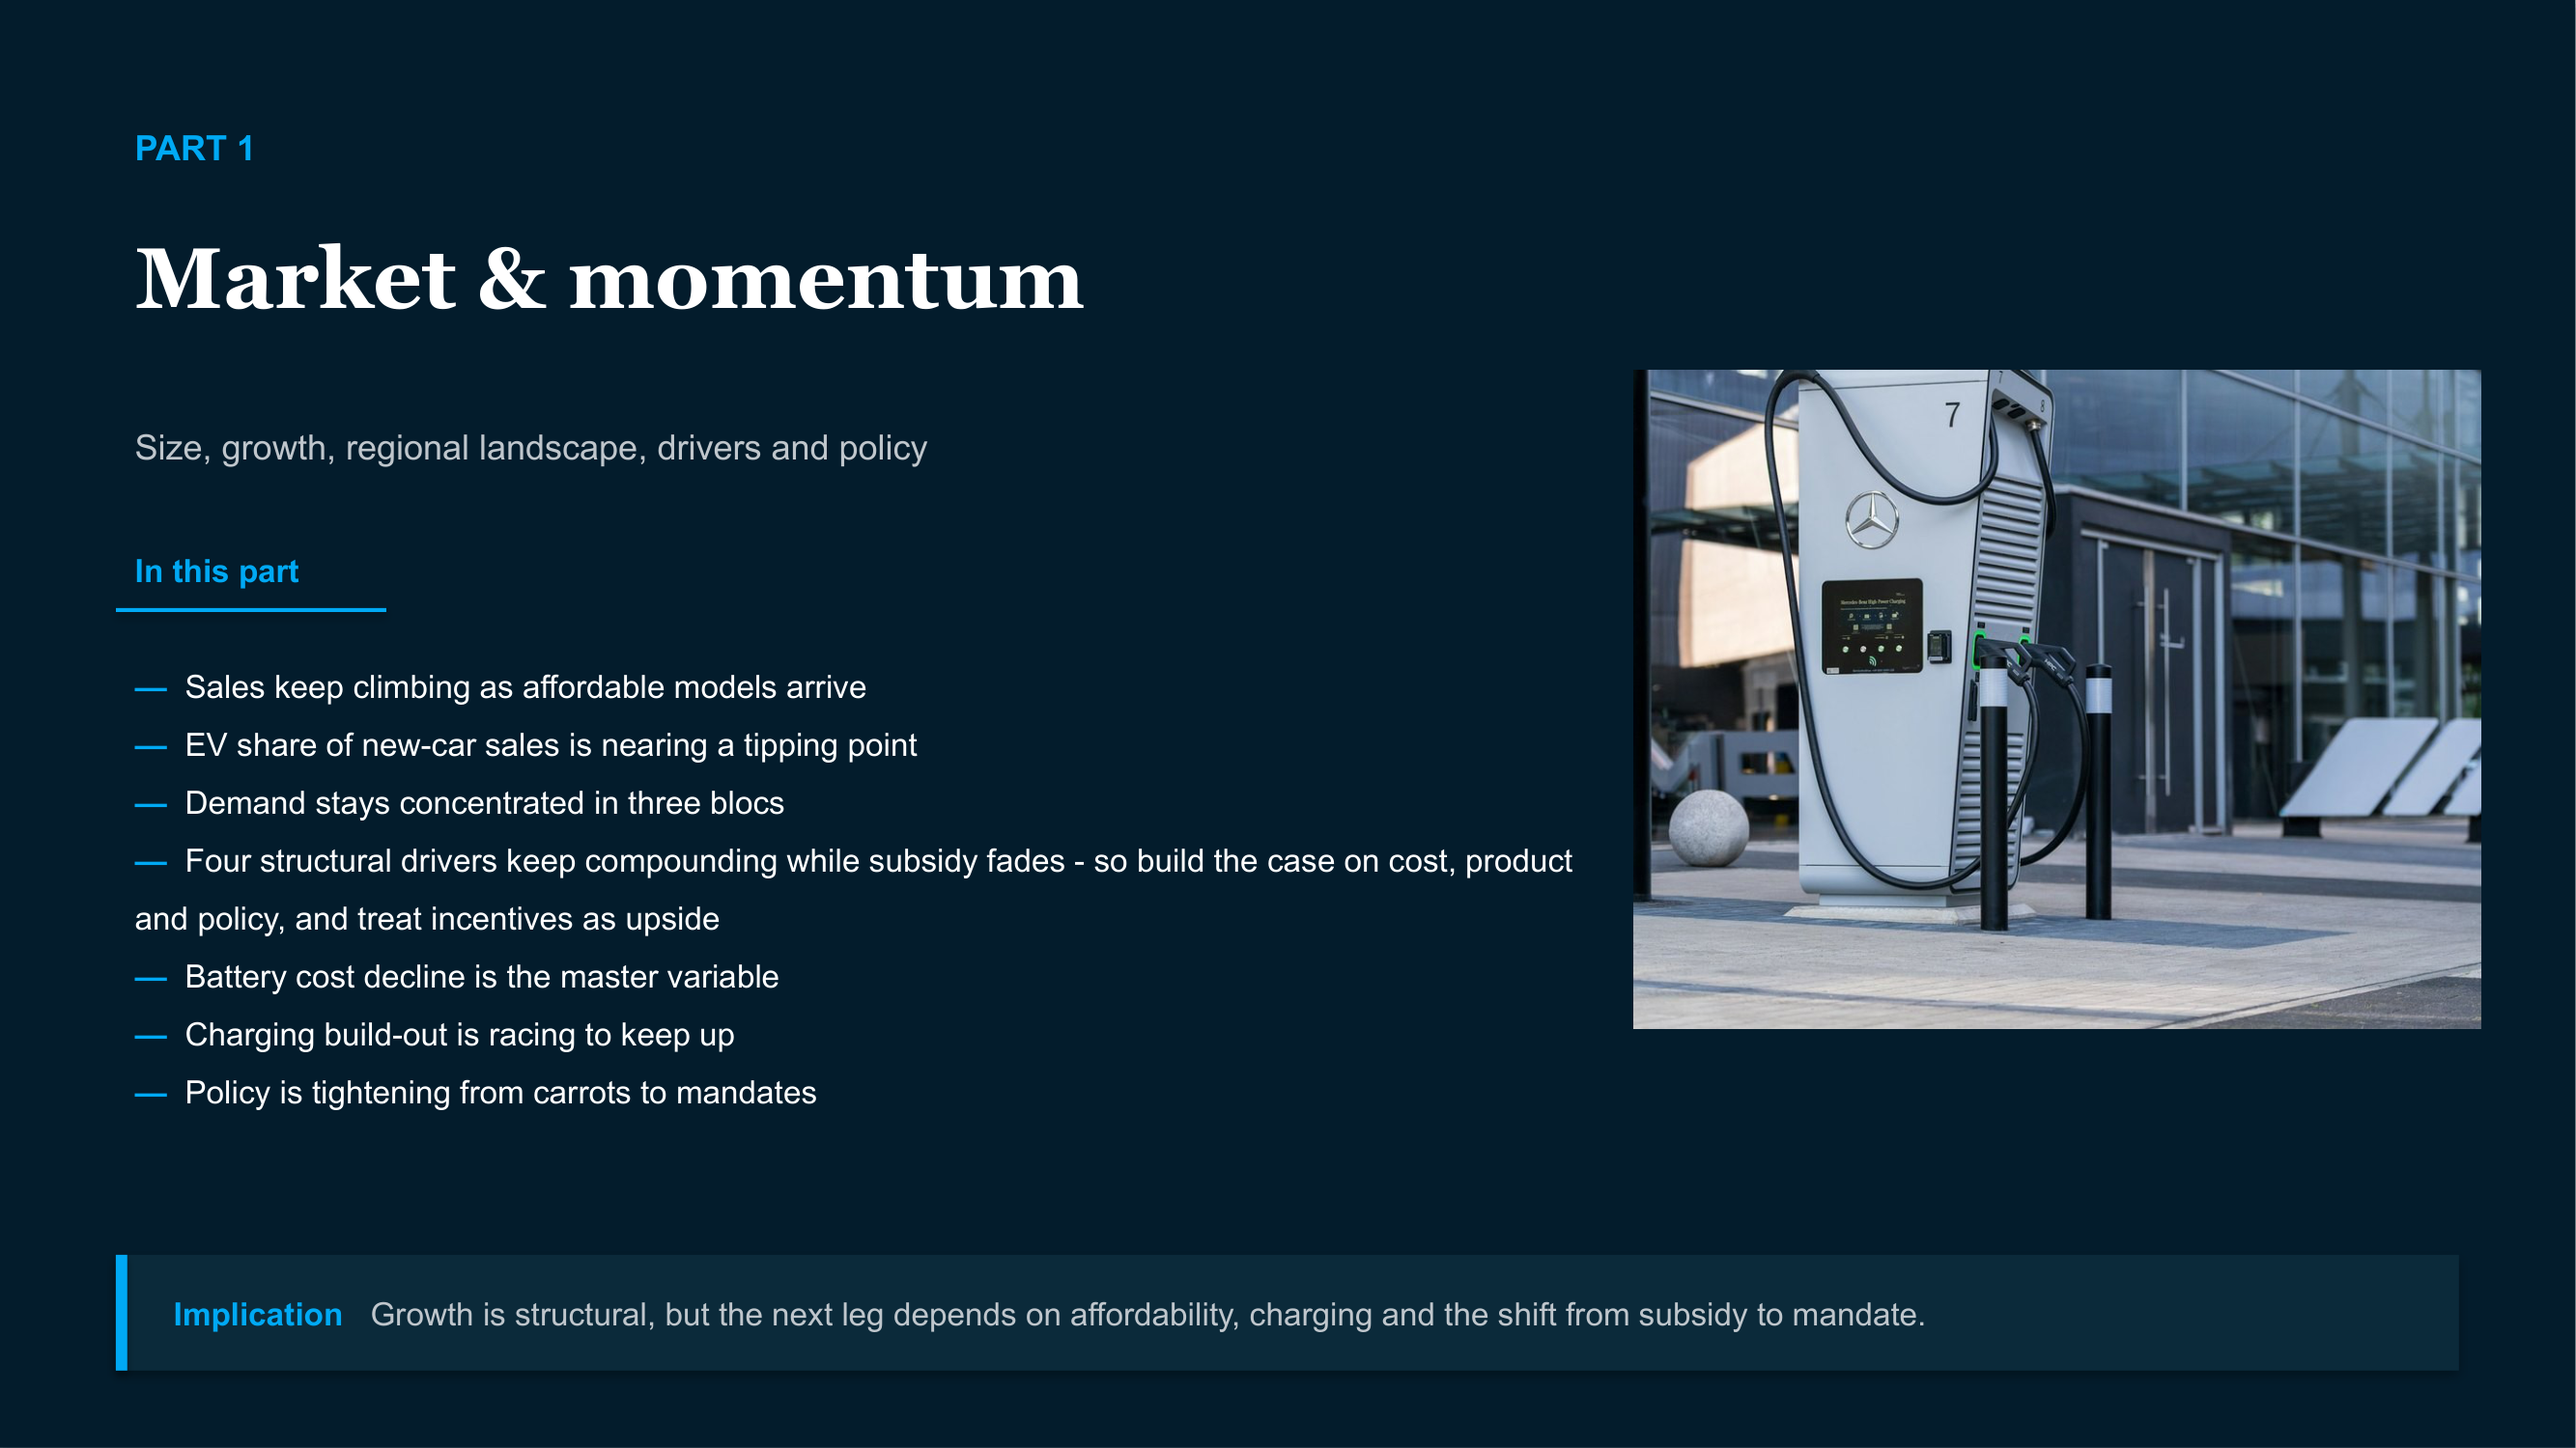
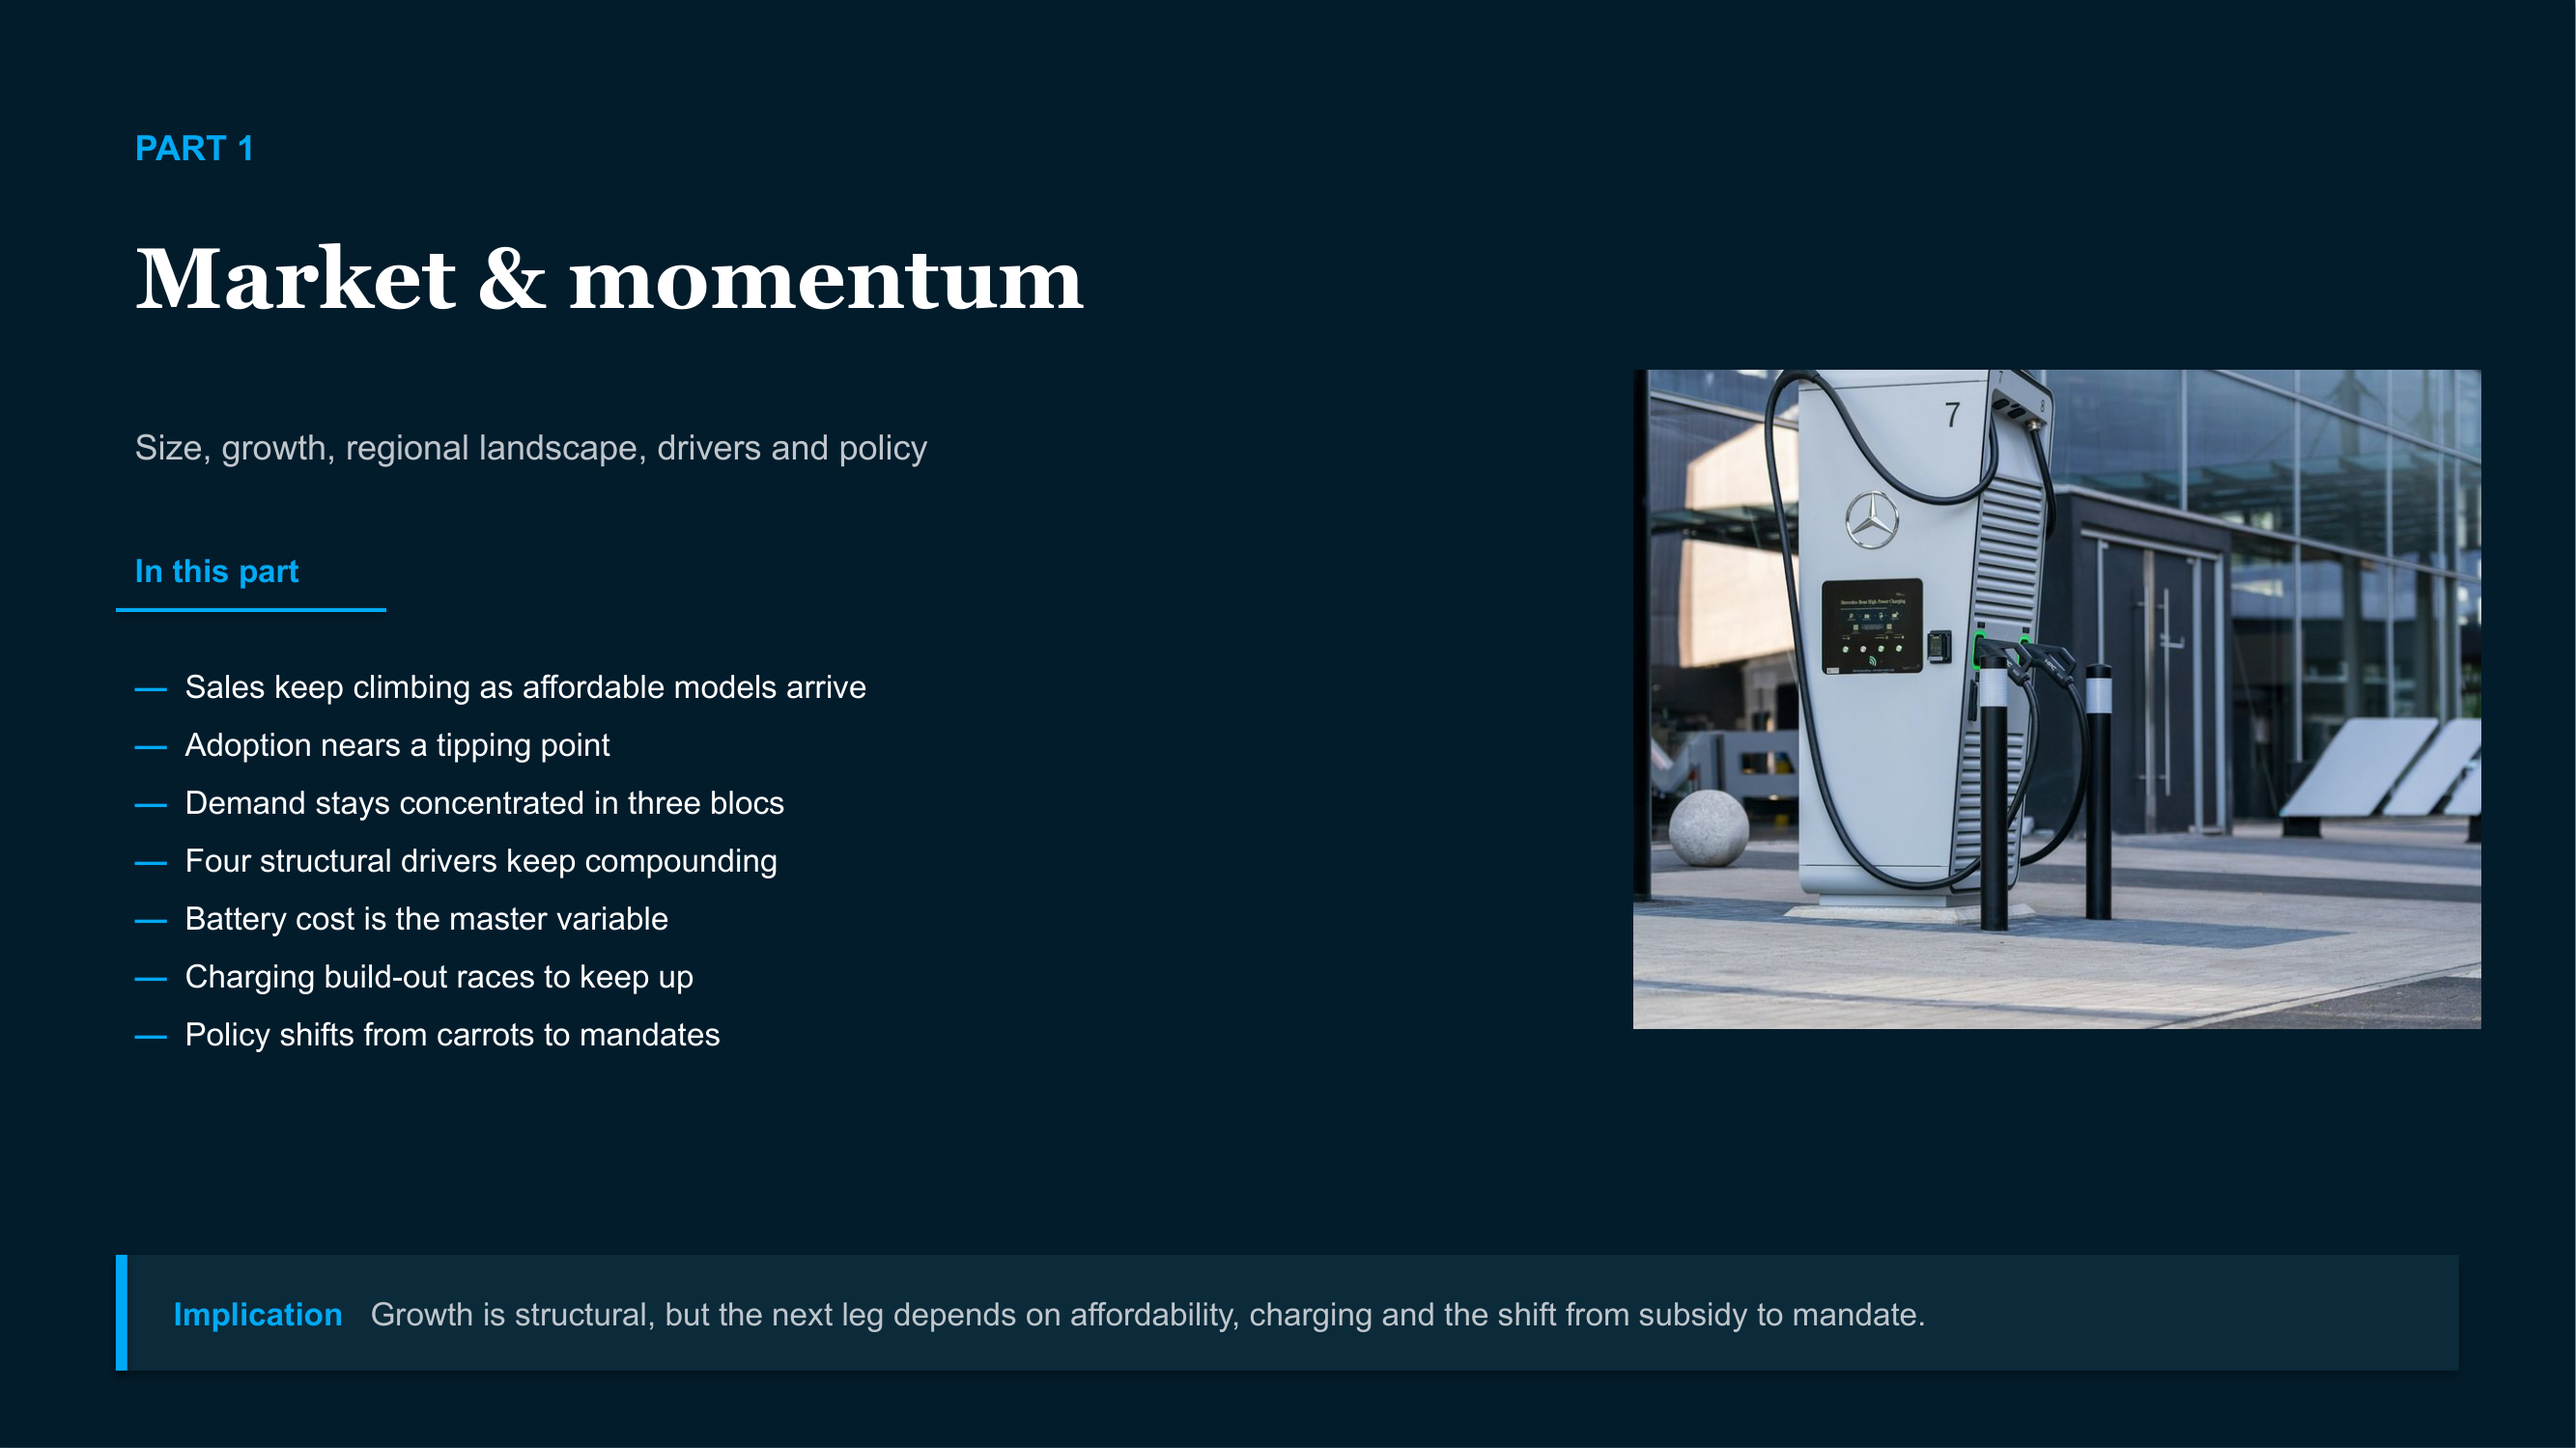
dividers: mini-TOC uses short page labels (not full body action titles); zh README all-Chinese
- build_deck.py (EN): shorten section_divider TOC items that had copied the full
  body action-title sentences (the long ' - so ...' implication clauses) down to
  short page labels; verified 0 full-sentence items remain, no overflow on the
  densest 8-item divider
- build_deck_zh.py: tidy one TOC label (四个机会空间作图 -> 四个机会空间)
- README.zh-CN: revert the bilingual image to the Chinese (KaiTi) page so the whole
  Chinese README uses Chinese screenshots; drop the orphaned English one
- re-render 04-divider.png

Changed region(s): [[0.0622, 0.6133, 0.3112, 0.7667], [0.3112, 0.5827, 0.6224, 0.6133], [0.0622, 0.4907, 0.3423, 0.5213]]

diff --git a/examples/ev_market/build_deck.py b/examples/ev_market/build_deck.py
@@ -123,12 +123,12 @@ def build():
     d.section_divider(1, "Market & momentum",
                       "Size, growth, regional landscape, drivers and policy",
                       ["Sales keep climbing as affordable models arrive",
-                       "EV share of new-car sales is nearing a tipping point",
+                       "Adoption nears a tipping point",
                        "Demand stays concentrated in three blocs",
-                       "Four structural drivers keep compounding while subsidy fades - so build the case on cost, product and policy, and treat incentives as upside",
-                       "Battery cost decline is the master variable",
-                       "Charging build-out is racing to keep up",
-                       "Policy is tightening from carrots to mandates"],
+                       "Four structural drivers keep compounding",
+                       "Battery cost is the master variable",
+                       "Charging build-out races to keep up",
+                       "Policy shifts from carrots to mandates"],
                       takeaway="Growth is structural, but the next leg depends on "
                                "affordability, charging and the shift from subsidy to mandate.",
                       image_path=img("div_market.jpg"))
@@ -296,10 +296,10 @@ def build():
                       "Who is buying, what they buy, and what holds them back",
                       ["Buyers are broadening from early adopters to mainstream",
                        "BEV is winning the long run; PHEV is a bridge",
-                       "Demand is splitting into three price bands with different economics - so pick one deliberately, because the mass middle competes margin away",
-                       "Total cost of ownership already favours EVs, but buyers anchor on sticker price - so sell whole-life cost, financing and energy as one package",
+                       "Demand is splitting into three price bands",
+                       "Total cost of ownership already favours EVs",
                        "Range, charging and price remain the top barriers",
-                       "A used-EV market is forming - and it matters"],
+                       "A used-EV market is forming"],
                       takeaway="Demand is mainstreaming, but price, charging and "
                                "residual-value confidence still gate the next cohort.",
                       image_path=img("div_demand.jpg"))
@@ -439,13 +439,13 @@ def build():
     # ================= PART 3 - COMPETITIVE LANDSCAPE =================
     d.section_divider(3, "Competitive landscape",
                       "Share, business-model archetypes, China, and the supply chain",
-                      ["Share is concentrating around a few scaled players, because EV economics reward scale - so reach scale in one lane quickly, or partner for it",
-                       "Two archetypes lead - integration and cost leadership - and straddling both leaves you sub-scale on each, so margin follows focus",
+                      ["Share is concentrating around a few scaled players",
+                       "Two archetypes lead: integration vs cost leadership",
                        "Profile - the integrator model",
                        "Profile - the cost-leader model",
-                       "Chinese OEMs are resetting the global cost frontier and accelerating exports - so assume the frontier is set in China and plan local content",
-                       "Legacy OEMs are strong in brand and scale but short on software - so expect partnerships, and a software-layer opening for challengers to take",
-                       "The battery supply chain is the real moat - whoever controls the midstream owns EV cost, and therefore margin and supply security",
+                       "Chinese OEMs are resetting the cost frontier",
+                       "Legacy OEMs: strong brand, short on software",
+                       "The battery supply chain is the real moat",
                        "Software-defined vehicles open a new front"],
                       takeaway="Scale, battery control and software - not legacy brand "
                                "alone - now decide who wins.",
@@ -633,7 +633,7 @@ def build():
                        "Solid-state is a step-change - but later than the hype",
                        "Charging is getting faster and smarter",
                        "Software and OTA become the product",
-                       "Autonomy advances in levels, not leaps - so win the assisted-driving present for premium attach, and treat full autonomy as optionality",
+                       "Autonomy advances in levels, not leaps",
                        "Vehicle-to-grid links EVs to the energy system"],
                       takeaway="Technology is commoditising the powertrain and moving "
                                "value to chemistry control, software and energy services.",
@@ -750,12 +750,12 @@ def build():
     # ============== PART 5 - OPPORTUNITIES & STRATEGY ==============
     d.section_divider(5, "Opportunities & strategy",
                       "Where the next decade is won - and what to do about it",
-                      ["Four opportunity spaces emerge below and around the vehicle - so aim where attractiveness and your right-to-win overlap, not at the biggest number",
+                      ["Four opportunity spaces emerge below and around the vehicle",
                        "Opportunity 1 - the affordable / entry segment",
                        "Opportunity 2 - the software & services margin pool",
-                       "Opportunity 3 - emerging markets and small mobility grow fastest on different economics - a locally-partnered, affordable model can build an early lead",
+                       "Opportunity 3 - emerging markets and small mobility",
                        "Strategic options for a challenger",
-                       "Implications for a new entrant - focus beats breadth, so commit to one lane, secure its scarce input, and sequence expansion from a defensible base"],
+                       "Implications for a new entrant"],
                       takeaway="The biggest, least-contested pools are affordability, "
                                "software/services and the upstream value chain.",
                       image_path=img("div_opportunity.jpg"))

diff --git a/examples/ev_market/build_deck_zh.py b/examples/ev_market/build_deck_zh.py
@@ -593,8 +593,8 @@ def build():
 
     # ============== 第 5 部分 —— 机会与战略 ==============
     d.section_divider(5, "机会与战略", "下一个十年在哪里取胜 —— 以及该怎么做",
-                      ["四个机会空间作图",
-                       "机会一 —— 可负担/入门细分",
+                      ["四个机会空间",
+                       "机会一 —— 可负担/入门",
                        "机会二 —— 软件与服务利润池",
                        "机会三 —— 新兴市场与小型出行",
                        "挑战者的三条战略赛道",
